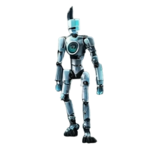
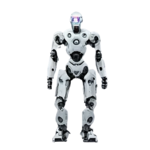
update snowfeather.robotics

Changed region(s): [[0.2933, 0.0267, 0.72, 0.96]]

diff --git a/myplugins/snowfeather.robotics/README.md b/myplugins/snowfeather.robotics/README.md
@@ -5,10 +5,18 @@ Adds three missions that lead to adding androids to the outfitter on Snowfeather
 Starts on Snowfeather(Bore Fah) when having at least one android installed. <br>
 <br>
 To get an android, which is needed to start this plugin, do the remnant mission 'shattered light 4'. Alternatively my plugin 'more.boarding.missions' gives androids as rare reward for boarding pirates.<br>
-The new buyable androids are twice as expensive as the original ones, and pay off after like 4 years.<br>
+The new buyable worker androids are twice as expensive as the original ones, and pay off after like 4 years. Also 6 fighting androids are added, technically they are h2h outfits (with attack/defense 2/2, 4/4, 6/6, 8/8, 10/10, 12/12). To keep all androids close a new outfit category "Androids" was made.<br>
+<img src='https://raw.githubusercontent.com/zuckung/endless-sky-plugins/master/screenshots/snowfeather.robotics01.jpg' width='400'>
+<img src='https://raw.githubusercontent.com/zuckung/endless-sky-plugins/master/screenshots/snowfeather.robotics02.jpg' width='400'>
+<img src='https://raw.githubusercontent.com/zuckung/endless-sky-plugins/master/screenshots/snowfeather.robotics03.jpg' width='400'>
 <br>
 <br>
 Changelog:<br>
+<br>
+2024-05-03<br>
+added 6 combat androids<br>
+added new outfit category "Androids"<br>
+changed worker android image to fit to the new androids<br>
 <br>
 2024-04-13<br>
 change scene png to jpg<br>
